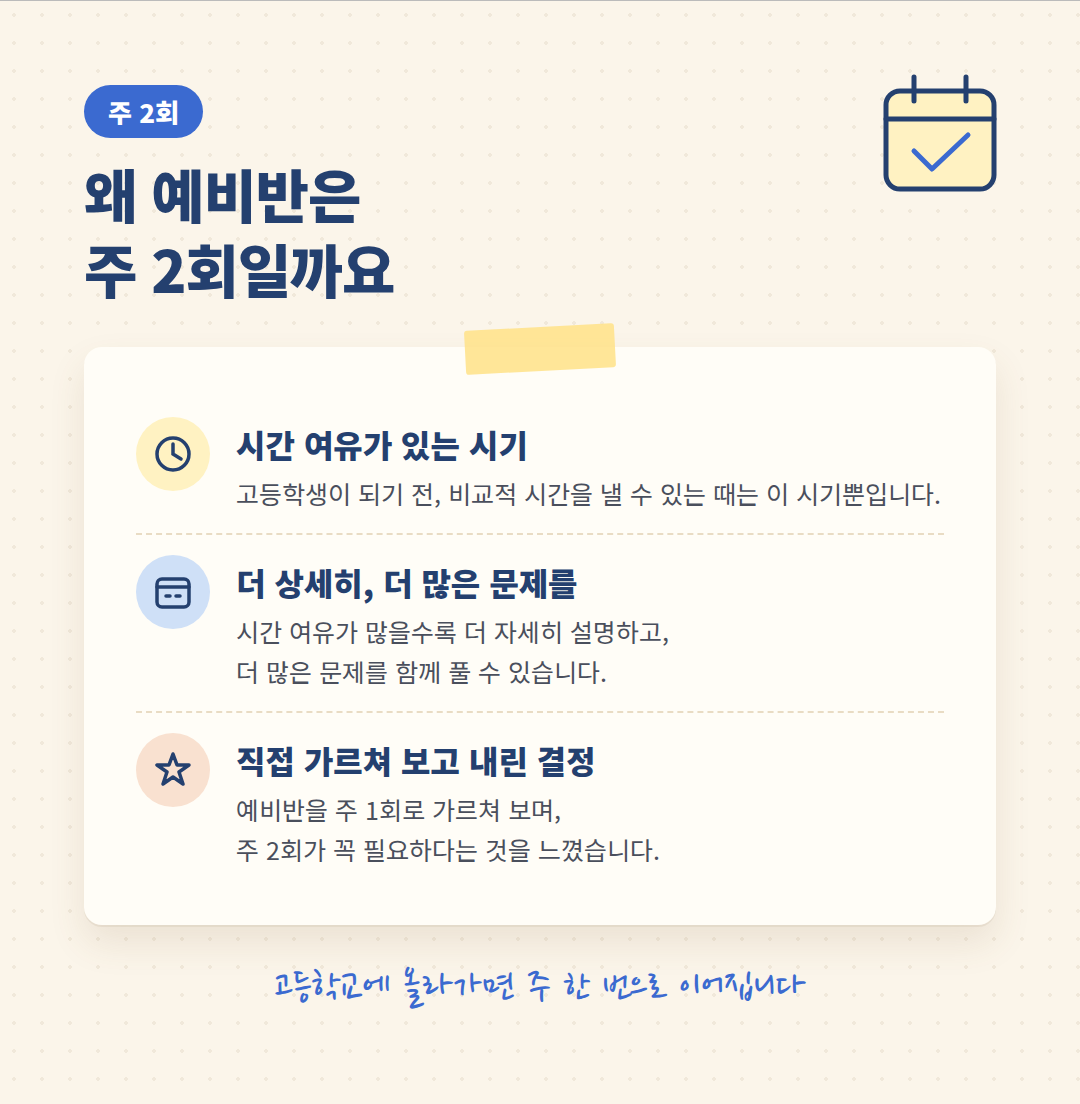
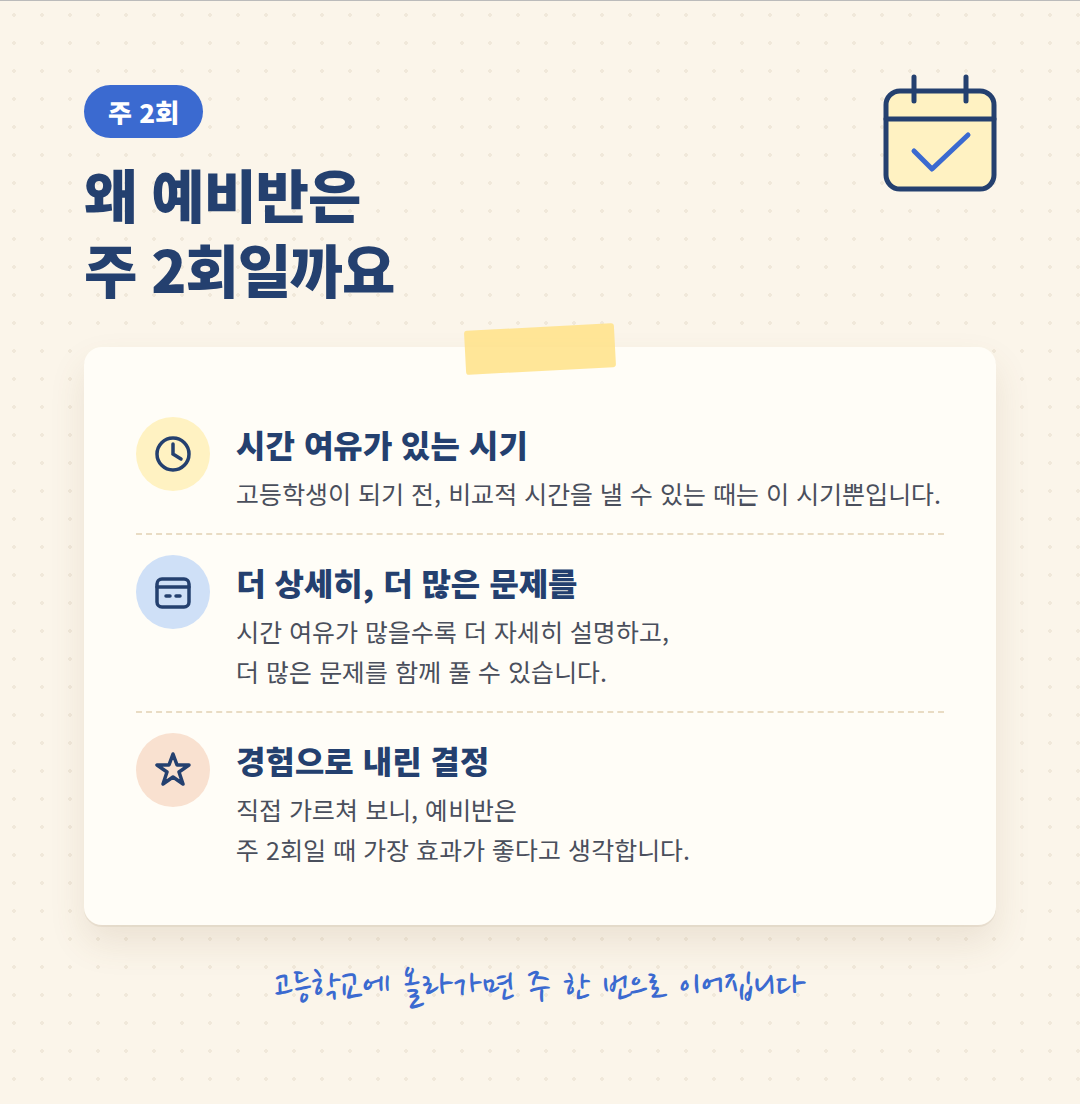
marketing: 상담 매일(월~일) 오후 2시~10시, 주 2회 그림 문장 원장님 확정본
Claude-Session: https://claude.ai/code/session_01WC7EVNFFJZDdwaC3HYBAmj

Changed region(s): [[0.2139, 0.6775, 0.6111, 0.8007]]

diff --git a/parkchan-science/marketing/daangn-01/kit.html b/parkchan-science/marketing/daangn-01/kit.html
@@ -50,7 +50,7 @@ ol.how{margin:0;padding-left:20px;font-size:14.5px;color:var(--body)}ol.how li{m
 반: 중등부 · 고1 예비 · 고1 내신 · 고3 수능
 일주일 무료 수강 후 등록을 결정하실 수 있습니다.
 
-남교입 제2019-115호</div></div><div class="fld"><div class="lab">주소<button class="cp" data-text="대구 달서구 조암로 25 그루빌딩 501호">복사</button></div><div class="val">대구 달서구 조암로 25 그루빌딩 501호</div></div><div class="fld"><div class="lab">주소 상세 · 찾아오는 길<button class="cp" data-text="월성 CGV 옆 그루빌딩 5층">복사</button></div><div class="val">월성 CGV 옆 그루빌딩 5층</div></div><div class="fld"><div class="lab">전화번호<button class="cp" data-text="053-213-3577">복사</button></div><div class="val">053-213-3577</div></div><div class="fld"><div class="lab">영업시간 · 상담 시간<button class="cp" data-text="오후 2시 ~ 오후 10시 (수업 시작 오후 5시 30분)">복사</button></div><div class="val">오후 2시 ~ 오후 10시 (수업 시작 오후 5시 30분)</div></div><div class="fld"><div class="lab">가격(메뉴) — 네 줄 각각 등록</div><div class="price"><span>중등부 주 1회 (월 총 1,042분)</span><b>210,000원</b><button class="cp" data-text="중등부 주 1회 (월 총 1,042분) 210,000원">복사</button></div><div class="price"><span>중등부 주 2회 (월 총 1,303분)</span><b>267,000원</b><button class="cp" data-text="중등부 주 2회 (월 총 1,303분) 267,000원">복사</button></div><div class="price"><span>고등부 주 1회 (월 총 912분)</span><b>220,000원</b><button class="cp" data-text="고등부 주 1회 (월 총 912분) 220,000원">복사</button></div><div class="price"><span>고등부 주 2회 · 고1 예비반 (월 총 1,303분)</span><b>317,000원</b><button class="cp" data-text="고등부 주 2회 · 고1 예비반 (월 총 1,303분) 317,000원">복사</button></div></div><div class="fld"><div class="lab">프로필 사진 · 매장 사진</div><div class="imgs"><figure><img src="images/00_profile.png" alt="프로필 사진 — 박찬 통합과학 학원 글자 로고"><figcaption>프로필 사진(원형으로 잘림)</figcaption></figure><figure><img src="images/photo_sign.png" alt="학원 외벽 간판"><figcaption>매장 사진 · 간판</figcaption></figure><figure><img src="images/photo_banner.png" alt="학원 입구 배너"><figcaption>매장 사진 · 입구</figcaption></figure></div><p class="note">매장 사진은 5장 이상이 좋습니다 — 원장님 폰으로 <b>강의실 · 수업 영상 시청 공간 · 교재 책상</b> 3장을 더 찍어 넣어 주십시오(학생 얼굴은 나오지 않게).</p></div></section>
+남교입 제2019-115호</div></div><div class="fld"><div class="lab">주소<button class="cp" data-text="대구 달서구 조암로 25 그루빌딩 501호">복사</button></div><div class="val">대구 달서구 조암로 25 그루빌딩 501호</div></div><div class="fld"><div class="lab">주소 상세 · 찾아오는 길<button class="cp" data-text="월성 CGV 옆 그루빌딩 5층">복사</button></div><div class="val">월성 CGV 옆 그루빌딩 5층</div></div><div class="fld"><div class="lab">전화번호<button class="cp" data-text="053-213-3577">복사</button></div><div class="val">053-213-3577</div></div><div class="fld"><div class="lab">영업시간 · 상담 시간<button class="cp" data-text="매일(월~일) 오후 2시 ~ 오후 10시 · 수업 시작 오후 5시 30분">복사</button></div><div class="val">매일(월~일) 오후 2시 ~ 오후 10시 · 수업 시작 오후 5시 30분</div></div><div class="fld"><div class="lab">가격(메뉴) — 네 줄 각각 등록</div><div class="price"><span>중등부 주 1회 (월 총 1,042분)</span><b>210,000원</b><button class="cp" data-text="중등부 주 1회 (월 총 1,042분) 210,000원">복사</button></div><div class="price"><span>중등부 주 2회 (월 총 1,303분)</span><b>267,000원</b><button class="cp" data-text="중등부 주 2회 (월 총 1,303분) 267,000원">복사</button></div><div class="price"><span>고등부 주 1회 (월 총 912분)</span><b>220,000원</b><button class="cp" data-text="고등부 주 1회 (월 총 912분) 220,000원">복사</button></div><div class="price"><span>고등부 주 2회 · 고1 예비반 (월 총 1,303분)</span><b>317,000원</b><button class="cp" data-text="고등부 주 2회 · 고1 예비반 (월 총 1,303분) 317,000원">복사</button></div></div><div class="fld"><div class="lab">프로필 사진 · 매장 사진</div><div class="imgs"><figure><img src="images/00_profile.png" alt="프로필 사진 — 박찬 통합과학 학원 글자 로고"><figcaption>프로필 사진(원형으로 잘림)</figcaption></figure><figure><img src="images/photo_sign.png" alt="학원 외벽 간판"><figcaption>매장 사진 · 간판</figcaption></figure><figure><img src="images/photo_banner.png" alt="학원 입구 배너"><figcaption>매장 사진 · 입구</figcaption></figure></div><p class="note">매장 사진은 5장 이상이 좋습니다 — 원장님 폰으로 <b>강의실 · 수업 영상 시청 공간 · 교재 책상</b> 3장을 더 찍어 넣어 주십시오(학생 얼굴은 나오지 않게).</p></div></section>
 <section class="box"><h2>② 쿠폰 만들기</h2><div class="fld"><div class="lab">쿠폰 이름<button class="cp" data-text="고1 예비반 일주일 무료 수강">복사</button></div><div class="val">고1 예비반 일주일 무료 수강</div></div><div class="fld"><div class="lab">쿠폰 내용<button class="cp" data-text="현 중3 학생을 위한 고1 예비반 수업을 일주일 동안 무료로 들어 보실 수 있습니다. 상담 전화(053-213-3577) 또는 내원 후 수강 예약을 해 주십시오.">복사</button></div><div class="val">현 중3 학생을 위한 고1 예비반 수업을 일주일 동안 무료로 들어 보실 수 있습니다. 상담 전화(053-213-3577) 또는 내원 후 수강 예약을 해 주십시오.</div></div><div class="fld"><div class="lab">사용 기간<button class="cp" data-text="2026년 10월 13일 ~ 11월 9일 (개강 첫 주까지)">복사</button></div><div class="val">2026년 10월 13일 ~ 11월 9일 (개강 첫 주까지)</div></div><div class="fld"><div class="lab">유의 사항<button class="cp" data-text="고1 예비반(화금반 · 수토반) 대상 · 수강 예약 후 사용">복사</button></div><div class="val">고1 예비반(화금반 · 수토반) 대상 · 수강 예약 후 사용</div></div></section>
 <section class="box"><h2>③ 소식 6편 — 화·금 주 2회</h2><p class="note">첫 줄이 피드에 보이는 문장입니다. 사진을 먼저 올리고 글을 붙여 넣으면 됩니다. 마지막 줄(등록번호·교습비)은 지우지 마십시오.</p><article class="news"><div class="when">소식 1 · 10월 13일(화)</div><div class="imgs"><figure><img src="images/ad_B_cream.png" alt="소식 1 사진 1"></figure><figure><img src="images/02_period.png" alt="소식 1 사진 2"></figure></div><div class="fld"><div class="lab">글<button class="cp" data-text="내년 봄 처음 만나는 &#x27;통합과학&#x27;, 차근차근 준비하실 수 있도록 안내드립니다.
 
@@ -65,7 +65,7 @@ ol.how{margin:0;padding-left:20px;font-size:14.5px;color:var(--body)}ol.how li{m
 이 두 권을 3월 입학 전까지 확실히 지도하겠습니다.
 
 먼저 일주일 들어 보시고 등록을 결정하셔도 됩니다.
-상담 053-213-3577 (오후 2시 ~ 10시) · 조암로 25 그루빌딩 501호 (월성 CGV 옆)
+상담 053-213-3577 (매일 오후 2시 ~ 10시) · 조암로 25 그루빌딩 501호 (월성 CGV 옆)
 
 남교입 제2019-115호 · 고1 예비반 교습비 월 317,000원(주 2회 · 월 1,303분)">복사</button></div><div class="val big">내년 봄 처음 만나는 &#x27;통합과학&#x27;, 차근차근 준비하실 수 있도록 안내드립니다.
 
@@ -80,7 +80,7 @@ ol.how{margin:0;padding-left:20px;font-size:14.5px;color:var(--body)}ol.how li{m
 이 두 권을 3월 입학 전까지 확실히 지도하겠습니다.
 
 먼저 일주일 들어 보시고 등록을 결정하셔도 됩니다.
-상담 053-213-3577 (오후 2시 ~ 10시) · 조암로 25 그루빌딩 501호 (월성 CGV 옆)
+상담 053-213-3577 (매일 오후 2시 ~ 10시) · 조암로 25 그루빌딩 501호 (월성 CGV 옆)
 
 남교입 제2019-115호 · 고1 예비반 교습비 월 317,000원(주 2회 · 월 1,303분)</div></div></article><article class="news"><div class="when">소식 2 · 10월 16일(금)</div><div class="imgs"><figure><img src="images/03_twice.png" alt="소식 2 사진 1"></figure></div><div class="fld"><div class="lab">글<button class="cp" data-text="왜 예비반은 주 2회일까요? 원장이 직접 말씀드립니다.
 

diff --git a/parkchan-science/marketing/blog-16/kit.html b/parkchan-science/marketing/blog-16/kit.html
@@ -160,7 +160,7 @@ mark{background:var(--soft);color:var(--ink);outline:1px solid var(--gold);borde
 그루빌딩 501호 (월성 CGV 옆)
 
 상담 문의 053-213-3577
-상담 시간 오후 2시 ~ 오후 10시
+상담 시간 매일 오후 2시 ~ 오후 10시
 
 【장소 · 네이버 지도 주소 등록이 끝나면 넣기 — 지금은 이 줄만 지우기】
 
@@ -229,7 +229,7 @@ mark{background:var(--soft);color:var(--ink);outline:1px solid var(--gold);borde
 <p><br></p><p style="margin:0;line-height:1.9;text-align:center;">【소제목 · 인용구】 <b>오시는 길</b></p><p><br></p>
 <p style="margin:0;line-height:1.9;text-align:center;">대구 달서구 조암로 25<br><b>그루빌딩 501호</b> (월성 CGV 옆)</p>
 <p><br></p>
-<p style="margin:0;line-height:1.9;text-align:center;">상담 문의 <b>053-213-3577</b><br>상담 시간 오후 2시 ~ 오후 10시</p>
+<p style="margin:0;line-height:1.9;text-align:center;">상담 문의 <b>053-213-3577</b><br>상담 시간 매일 오후 2시 ~ 오후 10시</p>
 <p><br></p>
 <p style="margin:0;line-height:1.9;">【장소 · 네이버 지도 주소 등록이 끝나면 넣기 — 지금은 이 줄만 지우기】</p>
 <p><br></p>
@@ -282,7 +282,7 @@ mark{background:var(--soft);color:var(--ink);outline:1px solid var(--gold);borde
 <figure><img src="images/06_free.png" alt="일주일 무료 수강 후 등록 · 대구 달서구 조암로 25 그루빌딩 501호(월성 CGV 옆) · 053-213-3577"><figcaption>사진 6 · 06_free.png</figcaption></figure>
 <blockquote>오시는 길</blockquote>
 <p class="c">대구 달서구 조암로 25<br><b>그루빌딩 501호</b> (월성 CGV 옆)</p>
-<p class="c">상담 문의 <b><span class="nw">053-213-3577</span></b><br>상담 시간 오후 2시 ~ 오후 10시</p>
+<p class="c">상담 문의 <b><span class="nw">053-213-3577</span></b><br>상담 시간 매일 오후 2시 ~ 오후 10시</p>
 <div class="place">지도 자리 — 네이버 지도 주소 등록이 끝나면 [장소] 버튼으로 넣습니다(지금은 비워 둠)</div>
 <p class="c">처음 만나는 통합과학,<br>아이가 자신 있게 시작할 수 있도록<br>정성껏 준비하겠습니다.<br>편하게 전화 주십시오.</p>
 <p class="c">감사합니다.</p>

diff --git a/parkchan-science/marketing/daangn-01/build_kit.py b/parkchan-science/marketing/daangn-01/build_kit.py
@@ -20,7 +20,7 @@ PROFILE = [
  ("주소", "대구 달서구 조암로 25 그루빌딩 501호"),
  ("주소 상세 · 찾아오는 길", "월성 CGV 옆 그루빌딩 5층"),
  ("전화번호", "053-213-3577"),
- ("영업시간 · 상담 시간", "오후 2시 ~ 오후 10시 (수업 시작 오후 5시 30분)"),
+ ("영업시간 · 상담 시간", "매일(월~일) 오후 2시 ~ 오후 10시 · 수업 시작 오후 5시 30분"),
 ]
 PRICES = [
  ("중등부 주 1회 (월 총 1,042분)", "210,000원"),
@@ -48,7 +48,7 @@ NEWS = [
 이 두 권을 3월 입학 전까지 확실히 지도하겠습니다.
 
 먼저 일주일 들어 보시고 등록을 결정하셔도 됩니다.
-상담 053-213-3577 (오후 2시 ~ 10시) · 조암로 25 그루빌딩 501호 (월성 CGV 옆)"""),
+상담 053-213-3577 (매일 오후 2시 ~ 10시) · 조암로 25 그루빌딩 501호 (월성 CGV 옆)"""),
  ("10월 16일(금)", ["03_twice.png"], """왜 예비반은 주 2회일까요? 원장이 직접 말씀드립니다.
 
 평소 강의를 해 보면, 시간의 여유가 많을수록 더 상세히 설명하고 더 많은 문제를 함께 풀 수 있었습니다.

diff --git a/parkchan-science/marketing/README.md b/parkchan-science/marketing/README.md
@@ -5,7 +5,7 @@
 |---|---|
 | 이름 | **박찬 통합과학 학원** (앱 이름 '박찬 과학 · 하루 한 개념'과 다름에 주의) |
 | 위치 | **대구 달서구 조암로 25, 그루빌딩 501호 (월성 CGV 옆)** — 2026-10-10 원장님 확정('월성 CGV 건물 5층'은 옛 표기, 쓰지 않음). 네이버 지도 장소 등록 전이라 글에 지도는 아직 넣지 않음 |
-| 상담 | **053-213-3577** · 상담 시간 오후 2시 ~ 오후 10시 |
+| 상담 | **053-213-3577** · 상담 시간 **매일(월~일) 오후 2시 ~ 오후 10시** |
 | 등록 | 제2019-115호 |
 | 교습비(월) | 중등부 주1회 21만 원 · 주2회 26만 7,000원 / 고등부 주1회 22만 원 · 주2회 31만 7,000원 |
 | 교육청 등록표(2026-10-06 적용, 원장님 사진) | 중등부 과학A 240분×주1 → 월 1,042분 21만 원 · 과학B 150분×주2 → 1,303분 26만 7,000원 / 고등부 과학A 210분×주1 → 912분 22만 원 · 과학B 150분×주2 → 1,303분 31만 7,000원 (월 4.345주, 정원 16) |
@@ -21,7 +21,7 @@
 - **예비반 진도: 11~12월 통합과학 1(과학의 기초·물질과 규칙성·시스템과 상호작용), 1~2월 통합과학 2(변화와 다양성·환경과 에너지·과학과 미래 사회)** — 문구는 **'3월 입학 전, 통합과학 1·2를 확실히 지도하겠습니다'**(2026-10-10 원장님 확정). '4개월 동안 ~ 제대로'·'두 권의 모든 단원을 빠짐없이'는 쓰지 않음. 글 본문에는 월별 진도를 적지 않고 그림(02)에만 '11월 ~ 12월 (2개월)' 괄호 표기. ⚠ 진도 명시는 선행학습 광고 위험을 키운다(원장님께 알림) — '선행'·'완성' 낱말은 계속 쓰지 않음.
 - **주 2회는 고1 예비반만**(시간 여유가 있는 유일한 때 — 원장님 강의 경험). **고1 내신반·고3 수능반은 주 1회.** 중등부반은 등록표상 주1(240분)·주2(150분) 둘 다 있음 — 실제 운영 횟수는 개강 공지 때 확인.
 - (정정) 앞서 26만 7,000원이라 했던 것은 중등부 주 2회 — 예비반은 고등부라 **31만 7,000원**.
-- 주 2회 이유(원장님 말씀 그대로): 시간 여유가 많을수록 더 상세히·더 많은 문제를 풀어 줄 수 있었다 · 주 1회에도 장점이 있지만 주 2회로 여유 있게 '다양한 지식을 전하고 문제 풀이를 하며 더 큰 학습 효과를 거두고자 합니다' · (글 본문에선 '예비반을 주 1회로 해 보니' 문단 삭제, 그림 03에만 '예비반을 주 1회로 가르쳐 보며, 주 2회가 꼭 필요하다는 것을 느꼈습니다'('본 강사는 느껴 왔습니다'는 어색해 2026-10-11 바꿈) · '이 시기뿐입니다') · ('상황에 따라 달라질 수 있습니다'는 2026-10-10 원장님 지시로 다시 뺌 — 글·그림 모두 '일주일에 한 번밖에 하지 못합니다.'로 끝) · 그래서 여유 있는 예비반 때만 주 2회, 고1 내신반·고3 수능반은 주 1회.
+- 주 2회 이유(원장님 말씀 그대로): 시간 여유가 많을수록 더 상세히·더 많은 문제를 풀어 줄 수 있었다 · 주 1회에도 장점이 있지만 주 2회로 여유 있게 '다양한 지식을 전하고 문제 풀이를 하며 더 큰 학습 효과를 거두고자 합니다' · (글 본문에선 '예비반을 주 1회로 해 보니' 문단 삭제, 그림 03에만 '직접 가르쳐 보니, 예비반은 주 2회일 때 가장 효과가 좋다고 생각합니다'(원장님 확정 2026-10-11) · '이 시기뿐입니다') · ('상황에 따라 달라질 수 있습니다'는 2026-10-10 원장님 지시로 다시 뺌 — 글·그림 모두 '일주일에 한 번밖에 하지 못합니다.'로 끝) · 그래서 여유 있는 예비반 때만 주 2회, 고1 내신반·고3 수능반은 주 1회.
 - **다른 학원과 견주거나 깎아내리는 말 금지**('다른 학원은 주 1회만' 등) · '대충이 아니라' 같은 부정 대비 표현도 빼고 '확실하게 다질 수 있도록 지도하겠습니다'.
 - **등록 순서(4단계)**: ① 상담 전화 또는 내원 → ② 수강 예약 → ③ 일주일 무료 수강 → ④ 등록 결정.
 - 최신 글 = **`blog-16/` 완성본**(확인 필요 칸 없음).
@@ -120,4 +120,4 @@
 - 당근 전화번호는 053 포함(폰 사용자) — 전광판만 T. 213-3577.
 - 내용 고치기: `daangn-01/build_kit.py` 의 PROFILE·COUPON·NEWS·ADS → `python3 build_kit.py daangn-01 kit.tpl.html`. 그림: `images_source.html`(Playwright 요소 스크린샷).
 - 블로그 글 끝 서명 '박찬 드림'은 쓰지 않는다(2026-10-11 원장님) — '감사합니다.'로 끝.
-- **상담 시간: 오후 2시 ~ 오후 10시**(2026-10-11 원장님) — 요일은 아직 안 정함【확인 필요】. 블로그 '오시는 길'·당근 영업시간에 씀.
+- **상담 시간: 매일(월~일) 오후 2시 ~ 오후 10시**(2026-10-11 원장님, 상시 상담). 블로그 '오시는 길'·당근 영업시간에 씀.

diff --git a/parkchan-science/marketing/daangn-01/content.md b/parkchan-science/marketing/daangn-01/content.md
@@ -19,7 +19,7 @@
 - **주소**: 대구 달서구 조암로 25 그루빌딩 501호
 - **주소 상세 · 찾아오는 길**: 월성 CGV 옆 그루빌딩 5층
 - **전화번호**: 053-213-3577
-- **영업시간 · 상담 시간**: 오후 2시 ~ 오후 10시 (수업 시작 오후 5시 30분)
+- **영업시간 · 상담 시간**: 매일(월~일) 오후 2시 ~ 오후 10시 · 수업 시작 오후 5시 30분
 
 ## 가격
 - 중등부 주 1회 (월 총 1,042분) — 210,000원
@@ -50,7 +50,7 @@
 이 두 권을 3월 입학 전까지 확실히 지도하겠습니다.
 
 먼저 일주일 들어 보시고 등록을 결정하셔도 됩니다.
-상담 053-213-3577 (오후 2시 ~ 10시) · 조암로 25 그루빌딩 501호 (월성 CGV 옆)
+상담 053-213-3577 (매일 오후 2시 ~ 10시) · 조암로 25 그루빌딩 501호 (월성 CGV 옆)
 
 남교입 제2019-115호 · 고1 예비반 교습비 월 317,000원(주 2회 · 월 1,303분)
 
